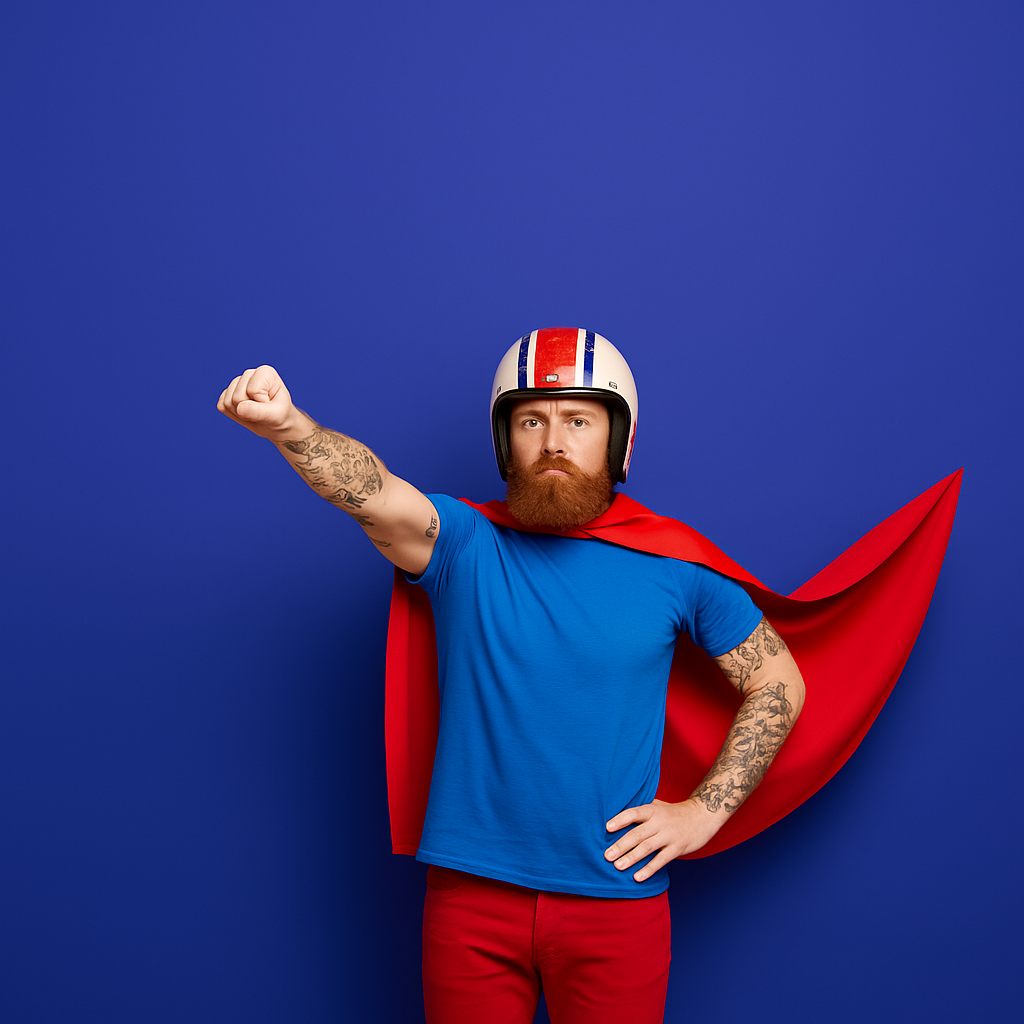
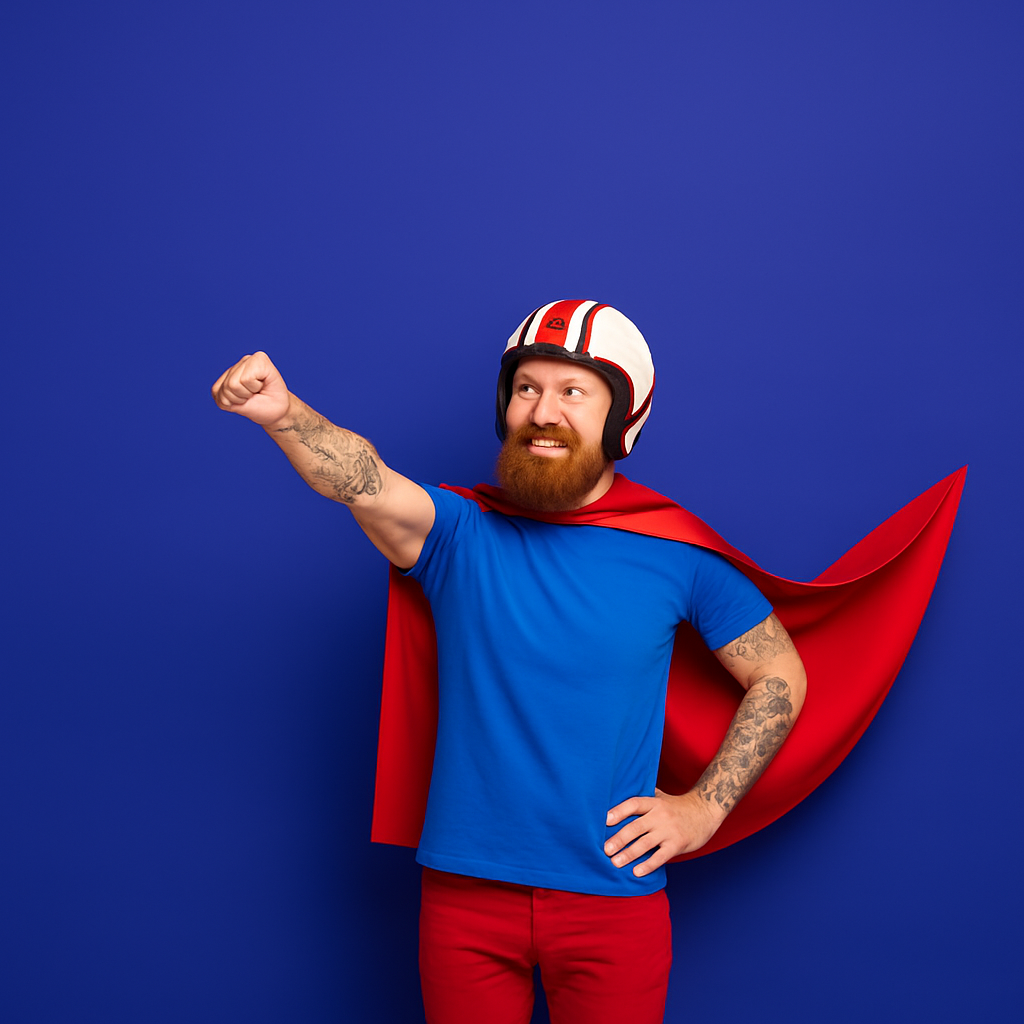
REFACTOR: ♻ Fix flash messages and streamline dependency usage
- Corrected typo in the French flash message for successful login.
    - Removed unused imports and dependencies in `LogOutAction`.
    - Replaced `UserService` with `UserProvider` in `RegisterAction` for better consistency.
    - Enhanced error handling in `RegisterAction` using `InternalErrorException`.
    - Improved flash message handling with `FlashRedirectTrait`.
    - Reoptimized hero image assets: replaced `hero-image.jpg` and `hero-image.png`.

diff --git a/gift.appli/src/WebUI/Actions/Auth/RegisterAction.php b/gift.appli/src/WebUI/Actions/Auth/RegisterAction.php
@@ -3,55 +3,61 @@ declare(strict_types=1);
 
 namespace Gift\Appli\WebUI\Actions\Auth;
 
+use Gift\Appli\Core\Application\Exceptions\InternalErrorException;
 use Gift\Appli\Core\Application\Usecases\Interfaces\AuthServiceInterface;
+use Gift\Appli\Core\Domain\Traits\FlashRedirectTrait;
+use Gift\Appli\WebUI\Providers\Interfaces\UserProviderInterface;
 use Psr\Http\Message\ResponseInterface as Response;
 use Psr\Http\Message\ServerRequestInterface as Request;
-use Throwable;
 
 class RegisterAction
 {
-    private AuthServiceInterface $authService;
-    private UserServiceInterface $userService;
+    use FlashRedirectTrait;
 
-    public function __construct(AuthServiceInterface $authService, UserServiceInterface $userService)
-    {
+    private AuthServiceInterface $authService;
+    private UserProviderInterface $userProvider;
+
+    public function __construct(
+        AuthServiceInterface $authService,
+        UserProviderInterface $userProvider
+    ) {
         $this->authService = $authService;
-        $this->userService = $userService;
+        $this->userProvider = $userProvider;
     }
 
     public function __invoke(Request $request, Response $response): Response
     {
-        $data = $request->getParsedBody();
-        $email = $data['email'] ?? '';
-        $password = $data['password'] ?? '';
-
-        if (empty($email) || empty($password)) {
-            $this->setFlashMessage('Email ou mot de passe manquant.');
-            return $this->redirect($response, '/auth');
-        }
-
         try {
-            $userId = $this->authService->register($email, $password);
-            $user = $this->userService->getUserById($userId);
-            $this->userService->storeUser($user);
-            $this->setFlashMessage('Inscription réussie ! Bienvenue.');
-            return $this->redirect($response, '/');
-        } catch (Throwable $e) {
-            $this->setFlashMessage('Une erreur est survenue lors de l’inscription.');
-            return $this->redirect($response, '/auth');
-        }
-    }
+            $data = $request->getParsedBody();
+            $email = $data['email'] ?? '';
+            $password = $data['password'] ?? '';
 
-    private function setFlashMessage(string $message): void
-    {
-        if (session_status() === PHP_SESSION_NONE) {
-            session_start();
-        }
-        $_SESSION['flash'] = $message;
-    }
+            if (empty($email) || empty($password)) {
+                return $this->redirectWithFlash(
+                    $response,
+                    '/auth',
+                    'Email ou mot de passe manquant.',
+                    'error'
+                );
+            }
 
-    private function redirect(Response $response, string $url): Response
-    {
-        return $response->withHeader('Location', $url)->withStatus(302);
+            $user = $this->authService->register($email, $password);
+            $this->userProvider->store($user);
+
+            return $this->redirectWithFlash(
+                $response,
+                '/',
+                'Inscription réussie ! Bienvenue.',
+                'success'
+            );
+
+        } catch (InternalErrorException $e) {
+            return $this->redirectWithFlash(
+                $response,
+                '/auth',
+                $e->getMessage(),
+                'error'
+            );
+        }
     }
 }

diff --git a/gift.appli/src/WebUI/Actions/Auth/LogOutAction.php b/gift.appli/src/WebUI/Actions/Auth/LogOutAction.php
@@ -4,10 +4,8 @@ declare(strict_types=1);
 namespace Gift\Appli\WebUI\Actions\Auth;
 
 use Gift\Appli\Core\Application\Usecases\Interfaces\AuthServiceInterface;
-use Gift\Appli\Core\Application\Usecases\Interfaces\UserServiceInterface;
 use Gift\Appli\Core\Domain\Traits\FlashRedirectTrait;
 use Gift\Appli\WebUI\Providers\Interfaces\UserProviderInterface;
-use Gift\Appli\WebUI\Providers\UserProvider;
 use Psr\Http\Message\ResponseInterface as Response;
 use Psr\Http\Message\ServerRequestInterface as Request;
 

diff --git a/gift.appli/src/WebUI/Actions/Auth/SignInAction.php b/gift.appli/src/WebUI/Actions/Auth/SignInAction.php
@@ -48,7 +48,7 @@ class SignInAction
             return $this->redirectWithFlash(
                 $response,
                 '/',
-                'Connexion réussieeeeeeeee.',
+                'Connexion réussie.',
                 'success'
             );
 
